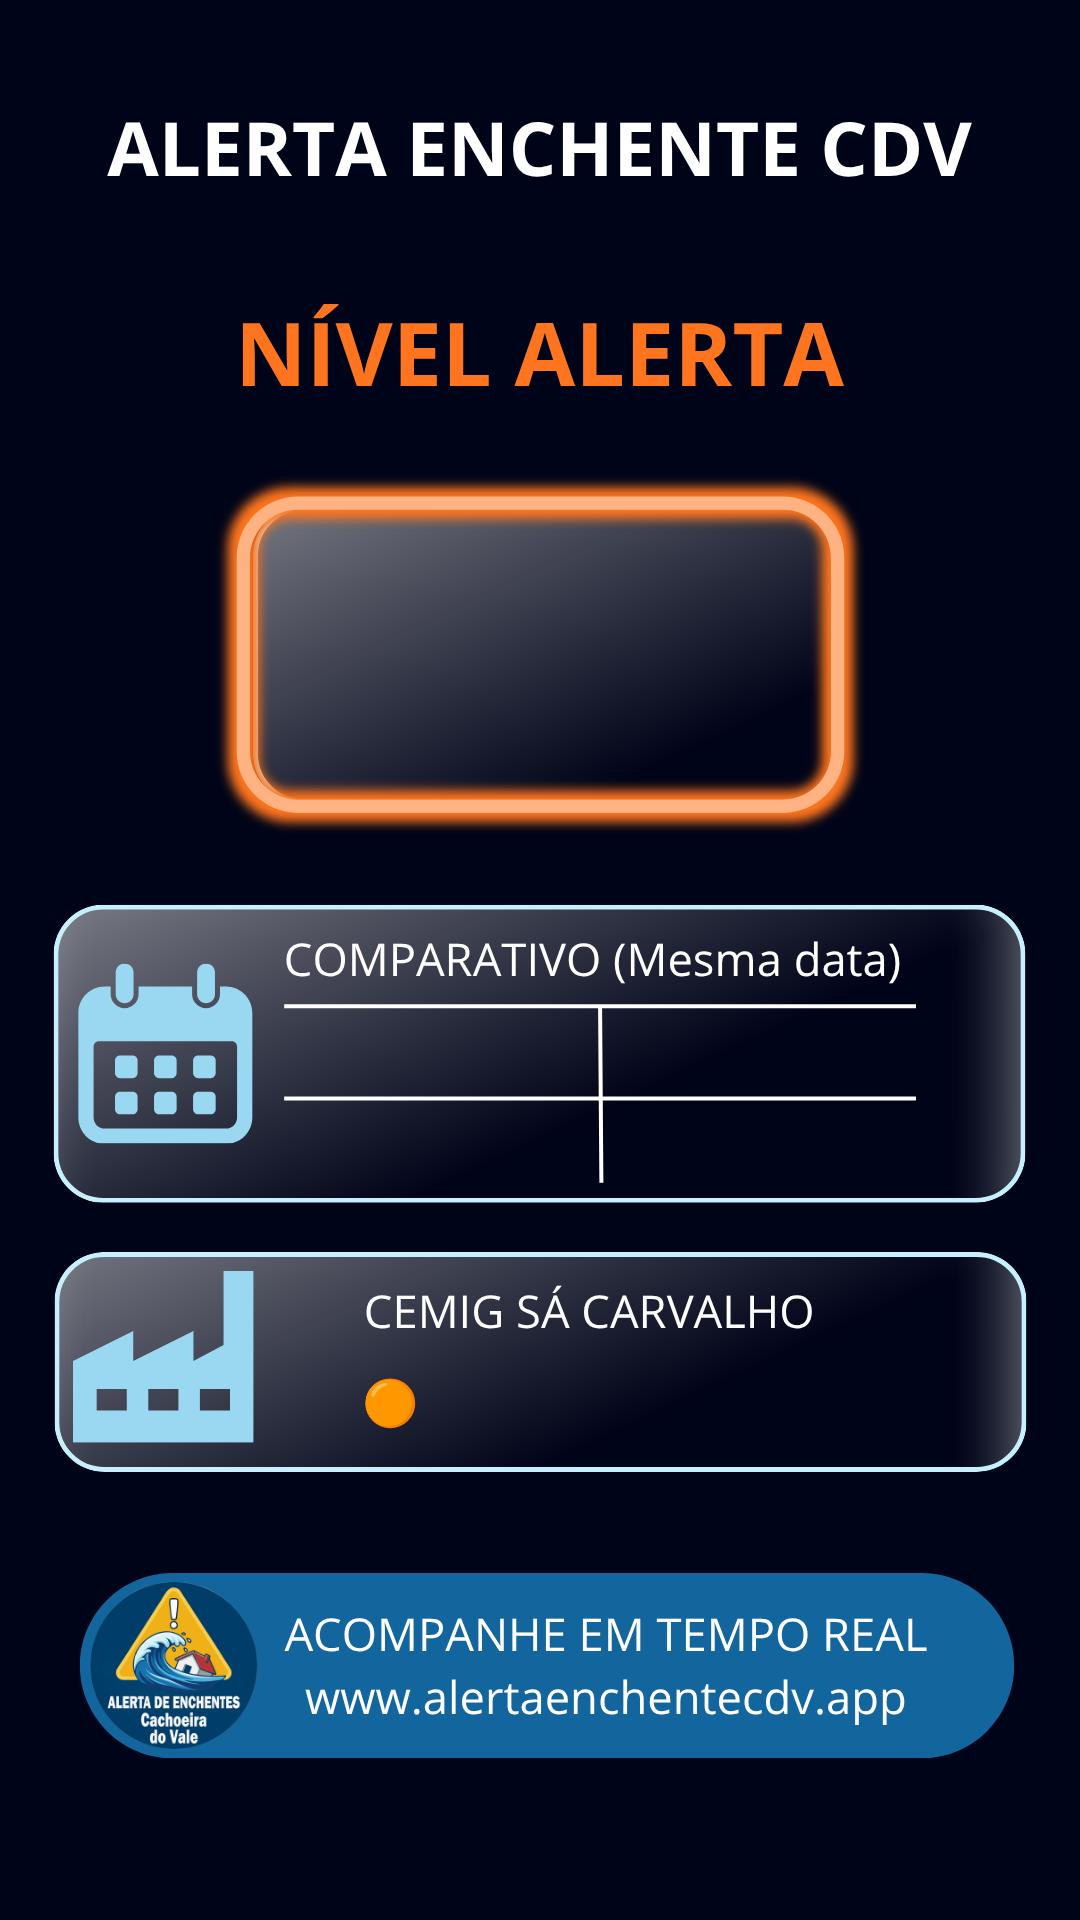
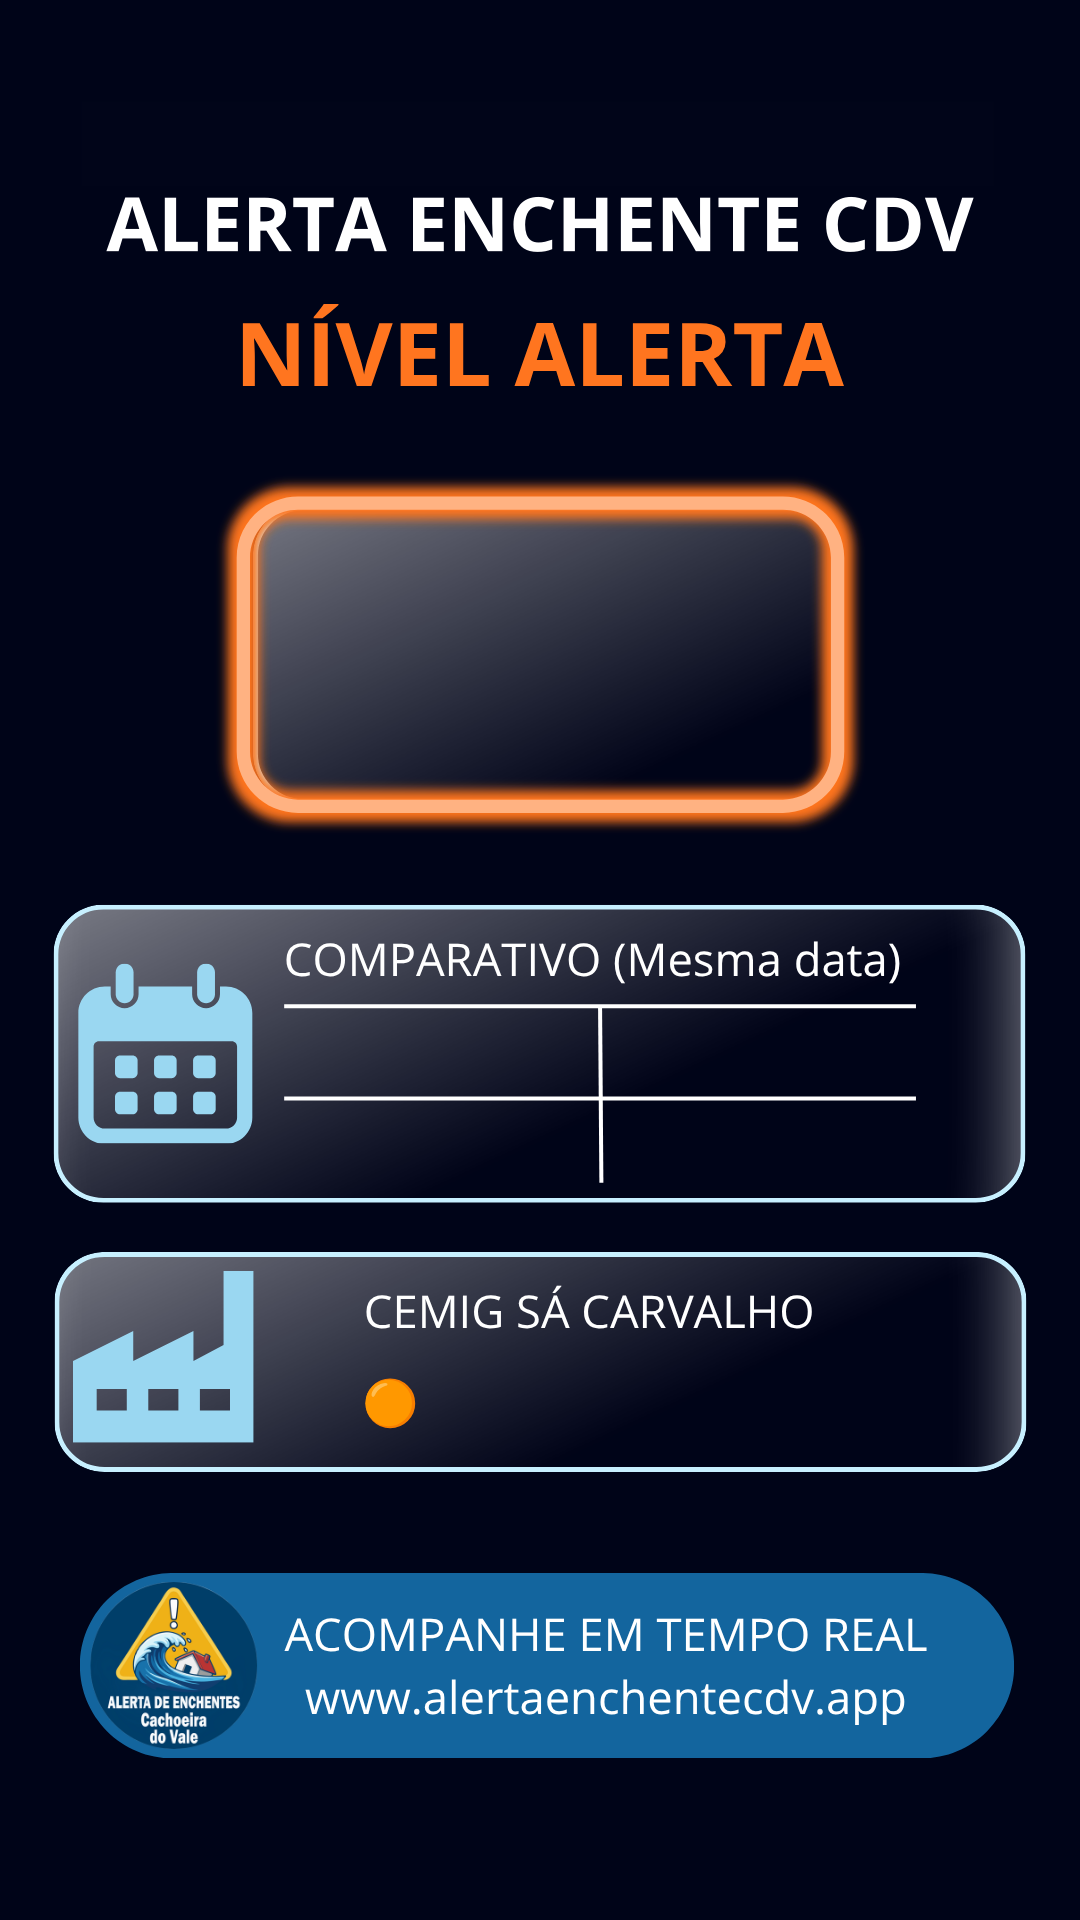
adição de data e hora no gerar story e correção do layout dos templates

Changed region(s): [[0.0917, 0.0625, 0.7333, 0.1562], [0.7639, 0.0625, 0.9167, 0.1562]]

diff --git a/gerar_story.py b/gerar_story.py
@@ -25,6 +25,7 @@ POS_ANO3 = (750, 1150)       # Quadrante inferior direito
 POS_DOT_CEMIG = (390, 1403)  
 RAIO_DOT = 28                
 POS_DEFLUENCIA = (430, 1405) 
+POS_DATA_HORA = (540, 1520) 
 
 # =========================================================
 # CONFIGURAÇÃO FINAL
@@ -115,6 +116,13 @@ def gerar_story_producao():
     
     texto_def = f"Defluência: {defluencia:.0f} m³/s" if defluencia > 0 else "Defluência: --"
     draw.text(POS_DEFLUENCIA, texto_def, font=font_cemig, fill="white", anchor="lm")
+
+    
+    agora = datetime.now()
+    data_hora_str = agora.strftime("%d/%m/%Y às %H:%M")
+    
+    # Desenha a data/hora centralizada (usando a fonte menor, font_cemig)
+    draw.text(POS_DATA_HORA, data_hora_str, font=font_cemig, fill="#94a3b8", anchor="mm")
 
     try:
         img_byte_arr = io.BytesIO()
